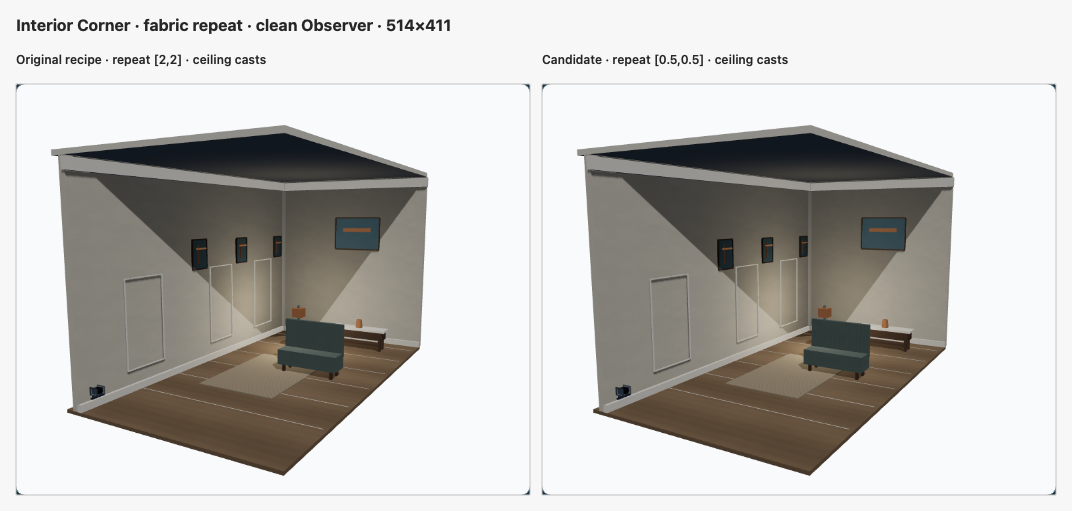
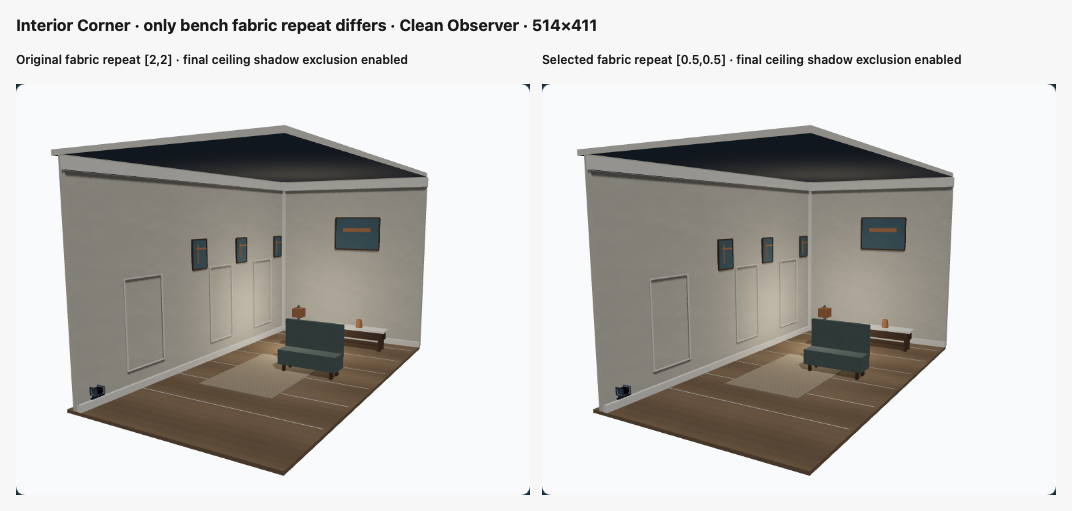
docs(render-quality): correct controlled fabric A/B evidence

diff --git a/docs/render-quality/PROCEDURAL_MATERIALS_INTERIOR_CORNER_PILOT.md b/docs/render-quality/PROCEDURAL_MATERIALS_INTERIOR_CORNER_PILOT.md
@@ -4,7 +4,7 @@
 
 **PASS**
 
-This is the final decision after reviewing the actual-browser A/B evidence and Review-Fix Round 1. At the normal 514 × 411 Observer canvas, `[0.5, 0.5]` gives the bench modest additional surface structure over `[2, 2]`; individual threads are still too small to resolve clearly at this distance. The texture remains plausible and subordinate, with no oversized weave or checker effect. The ceiling shadow comparison confirms the distracting diagonal is removed while the ceiling stays visible and localized shadows remain. Paper, wood, plaster, rug, geometry, camera, optics, lighting rig, and teaching behavior are preserved.
+This is the final decision after reviewing the controlled real-browser A/B on the final implementation and Review-Fix Round 1. At the normal 514 × 411 Observer canvas, `[0.5, 0.5]` adds a subtle, low-contrast surface cue over `[2, 2]`; individual threads are not resolved at this distance. The texture remains plausible and subordinate, with no oversized weave or checker effect. The ceiling shadow comparison confirms the distracting diagonal is removed while the ceiling stays visible and localized shadows remain. Paper, wood, plaster, rug, geometry, camera, optics, lighting rig, and teaching behavior are preserved.
 
 No further material tuning was warranted. The fabric's remaining scale limitation is documented below.
 
@@ -121,7 +121,7 @@ The previous review identified insufficient ordinary-size bench-weave readabilit
 | Selected | `[0.5, 0.5]` | casts | Modest additional surface structure is visible; individual threads remain below clear resolution at this scene size. No oversized weave or obvious checker appearance. |
 | Final scene | `[0.5, 0.5]` | ceiling excluded | Same selected fabric scale, with the diagonal wall shadow removed. |
 
-Every fabric candidate kept color `#6d7b78`, roughness `0.98`, and normal strength `0.18`; only repeat changed. The A/B contact sheet compares the original `[2, 2]` recipe against `[0.5, 0.5]` at the original 514 × 411 Observer size. Both panels use the same route, viewport (1440 × 1000), DPR 1, Standard quality, camera/orbit, focus (8000 mm), aperture (f/5.6), neutral movements, WebGL2/r187 backend, and ceiling-casting state. The sidecars match those capture-state fields. At this distance the bench occupies few pixels, so individual yarns are not resolved; the final texture adds a restrained surface cue without becoming visually loud. This supports PASS for the integration at ordinary scene scale, with the pixel-scale limitation retained. No further texture tuning was performed.
+Every fabric candidate kept color `#6d7b78`, roughness `0.98`, and normal strength `0.18`; only repeat changed. The first published A/B came from separate capture attempts and its sidecars recorded public UI state, but not live scene caster flags or shadow-camera state. Review reported visibly different wall-shadow boundaries, so that sheet was withdrawn as controlled evidence. The checked-in source PNGs and sheet could not reproduce that background difference in a byte-level audit, and the old runtime state was not recorded well enough to establish a cause. The replacement comparison and findings are in **Final Evidence Correction — Controlled Fabric A/B** below. No additional material tuning was performed.
 
 The shadow cause was the shared `configureTeachingShadowParticipation()` policy, which opts every lit non-helper subject mesh into shadow casting. This round adds an exact-name exclusion for `interior-corner-ceiling` in `TeachingLighting.tsx`. The ceiling remains a visible `MeshStandardMaterial` surface; the lighting rig and all other caster/receiver decisions remain unchanged. A focused unit test proves that the ceiling does not cast while the wall still casts and receives, and that the ceiling remains visible and lit. The same registered subject and helper serve Observer and Ground Glass.
 
@@ -129,13 +129,11 @@ The shadow cause was the shared `configureTeachingShadowParticipation()` policy,
 
 The final clean Observer capture at 514 × 411 shows the ceiling shadow removed from the walls. The room reads more evenly while contact shadows under the bench and furniture and shadows around the wall trim/art remain. Teaching Observer overlays remain present and legible.
 
-The three published contact sheets below use the actual browser canvas captures as panels at their native 514 × 411 pixels (1:1). The contact-sheet labels and margins are added around those panels; the source screenshots remain untouched in the ignored directory and the displayed panels are not cropped, resized, or reoriented. Raw captures and sidecars remain in `.dream-loop/interior-corner/review-fix-1/`.
+The published contact sheets below use actual browser canvas captures as panels at their native 514 × 411 pixels (1:1). The ceiling-shadow and Clean/Teaching sheets remain unchanged from the accepted Review-Fix Round 1 evidence. The fabric sheet was replaced with the controlled final-state comparison documented below. Raw captures and sidecars remain in the ignored `.dream-loop/interior-corner/review-fix-1/` directory.
 
 #### Fabric A/B — original `[2, 2]` versus selected `[0.5, 0.5]`
 
-![Clean Observer fabric repeat A/B at 514 by 411](evidence/pr334/observer-fabric-ab.png)
-
-The right panel was captured during the `[0.5, 0.5]` worktree candidate based on reviewed HEAD `865ed077e4414da274a3a10f40d17806220c4890`; that temporary change became the final bench assignment in implementation commit `097c587619641332a364e7198c70aec34d3f0ac6`. Its sidecar's `sourceCommit` records the Git base for the capture, not a hash of the temporary working-tree edit. The left panel is the original `[2, 2]` recipe. The script that generated the labels and the matched sidecars remain in the ignored worktree for provenance.
+The earlier sidecar-based A/B was superseded after review. The corrected sheet and its runtime and pixel evidence appear in **Final Evidence Correction — Controlled Fabric A/B** below.
 
 #### Ceiling shadow — before versus after
 
@@ -195,6 +193,28 @@ The benchmark found no additional texture, geometry, material, or renderer-resou
 - The final report and three image files are also outside the visual-worker allowlist by explicit authorization for this documentation/evidence closeout. The cumulative A1-based guard was not rerun: its diff includes prior report content and cannot isolate the Round 1 correction. Do not treat the historical A2 guard command above as a passing validation for the completed PR or claim that the final cumulative guard passes.
 - GitHub Actions on the original reviewed PR head `865ed077e4414da274a3a10f40d17806220c4890` and implementation commit `097c587619641332a364e7198c70aec34d3f0ac6` completed successfully. The implementation run was workflow run `43473665553` (run 2029). The exact current-head checks for this final report/evidence package are recorded in the PR handoff after publication.
 
+## Final Evidence Correction — Controlled Fabric A/B
+
+### Previous mismatch diagnosis
+
+The prior sheet was not accepted as controlled proof because the reviewer observed different wall-shadow shapes while its sidecars contained no actual mesh shadow flags, light placement, or shadow-camera state. Source commits `46705e79ea70ed6c1607bd5ecf87604f18f34206` and `865ed077e4414da274a3a10f40d17806220c4890` differ only by the pilot-report commit; the scene-factory and shadow-policy code is the same in both. A post-hoc byte-level comparison of the tracked prior sheet's two source panels and their saved PNGs found 2,285 changed pixels, all inside the projected bench region, with zero changes among 206,666 pixels outside it (maximum channel difference 4). The reported wall-shadow discrepancy could not be reproduced from those stored bytes, so its runtime cause remains **unestablished**. The old panel is superseded regardless, because the prior capture did not record the live rendering state needed to rule out a stale frame or initialization difference.
+
+### Controlled capture state and provenance
+
+Both replacement panels were captured in one Playwright Chromium page against the final PR source commit `fdb5b6461fecc2effa2c05080f921b626f300b2d`, using the public route `/simulator/free/interior-corner?sceneCapacityProfiling=1`, viewport 1440 × 1000, browser DPR 1, Standard quality, Clean Observer, focus 8000 mm, f/5.6, neutral Rise/Tilt/Swing, camera position `(-6.6, 2.9, -5.6)`, and orbit target `(0.45, 0.85, 6.7)`. The browser-only override changed only the bench material's `map`, `roughnessMap`, and `normalMap` repeats from `[0.5, 0.5]` to `[2, 2]` for panel A, then back to the final `[0.5, 0.5]` for panel B. Color `#6d7b78`, roughness `0.98`, normal strength `0.18`, texture data, geometry, and all other materials remained unchanged; the production source remained at `[0.5, 0.5]` throughout.
+
+The live R3F snapshot confirmed the ceiling remained visible with its `MeshStandardMaterial`, `castShadow: false`, and `receiveShadow: false` for both captures. The same scene had 68 mesh casters and 29 receivers. The teaching fill was a HemisphereLight at intensity `0.55`; the directional key remained at `(-0.108, 5.35, 5.5)`, aimed at `(2.392, 1.85, 8)`, intensity `1.15`, with its 1024 × 1024 PCF shadow map, bias `-0.0002`, normal bias `0.015`, and camera bounds `[-8, 8] × [-8, 8]` / near `0.1` / far `32`. The Interior Corner practical point light remained at `(0.42, -0.09, 8.3)`, intensity `5`, distance `7.5`, decay `2`, with shadow casting disabled. The renderer was active WebGL2 / Three.js r187 with Standard output, ACES Filmic, exposure `1`, sRGB output. The runtime snapshots matched for camera state, object transforms and geometry, all casters/receivers, all lights and shadow-camera settings, renderer configuration, and UI controls; the only intended state difference was the three bench texture repeats. Each saved canvas image stabilized across three consecutive identical captures, was 514 × 411, and the page reported no errors. The final repeat was restored after capture.
+
+The bench ROI is `(x=258, y=230, width=74, height=62)`, derived from the projected bounds of the registered bench seat and back plus 3 px padding. On the two genuine screenshot pixel buffers, 2,282 pixels differ inside that ROI (mean absolute RGB-channel difference `0.46/255`, maximum `4/255`); **0 of 206,666 pixels outside it differ**. Background walls, shadows, object edges, and composition are pixel-aligned. The texture-scale change is subtle but credible at ordinary size: `[0.5, 0.5]` adds a faint surface variation, while individual threads remain unresolved. There is no oversized weave, checker appearance, or visible aliasing. This supports the limited claim of improved surface structure, not resolved yarn detail.
+
+![Controlled Clean Observer fabric A/B at 514 by 411; both panels use final ceiling-shadow exclusion](evidence/pr334/observer-fabric-ab.png)
+
+The compact contact sheet is 1072 × 511 and is directly published at [`evidence/pr334/observer-fabric-ab.png`](evidence/pr334/observer-fabric-ab.png). Its two 514 × 411 panels preserve the captured screenshot pixel bytes exactly, with no resizing, crop, reorientation, or image enhancement. Ignored provenance files are `.dream-loop/interior-corner/review-fix-1/controlled-final-shadow/capture-diagnostics.json`, `pixel-difference-raw-bytes.json`, `observer-fabric-repeat-2x2.png`, and `observer-fabric-repeat-0_5x0_5.png`. The browser-only capture harness and pixel comparison script also remain ignored in that directory; no temporary scripts or raw screenshots are committed.
+
+### Reused validation
+
+This correction changes only the report and one compact evidence image. Production code is unchanged, so the accepted nine-state Focus/Aperture matrix, Processed/Raw/Upright and Rise/Swing regressions, ceiling-shadow comparison, scene-capacity benchmark, and Review-Fix Round 1 tests remain the applicable implementation evidence. Current-head GitHub CI is recorded in the PR handoff after publication.
+
 ## Final Acceptance
 
 **PASS — ready for final human approval.** This decision uses the ordinary-size fabric A/B and the final ceiling-shadow and Clean/Teaching Observer evidence linked above. It does not require individual yarns to remain visible when the bench occupies only a small part of the canvas.
@@ -203,12 +223,12 @@ The benchmark found no additional texture, geometry, material, or renderer-resou
 | --- | --- | --- |
 | Shared paper/fabric library | PASS | Deterministic shared API and existing ownership remain intact. |
 | Legacy pattern preservation | PASS | Existing limestone, cut-stone, concrete, plaster, and wood output hashes remain unchanged. |
-| Fabric integration | PASS | `[0.5, 0.5]` adds modest surface structure versus `[2, 2]` without an oversized weave, checker pattern, or teaching-scene distraction. Individual threads are not resolved at 514 × 411. |
+| Fabric integration | PASS | The controlled A/B confines all pixel differences to the bench ROI; `[0.5, 0.5]` adds a subtle, low-contrast surface cue without oversized weave, checker pattern, or teaching-scene distraction. Individual threads are not resolved at 514 × 411. |
 | Ceiling shadow | PASS | The diagonal wall shadow is removed; the ceiling remains visible/lit and localized furniture/object shadows remain. |
 | Observer / Teaching | PASS | Clean Observer remains clear and Teaching Observer retains its focus, DOF, and optical overlays. |
 | Ground Glass | PASS | The validated focus/aperture matrix, Processed, Raw, Upright, Rise, and Swing captures remain contentful with expected orientation. |
 | Resources / performance | PASS | Scene counts are unchanged from A2; timing changes are small SwiftShader observations, not GPU measurements. |
 | Tests / CI | PASS | The Review-Fix implementation validation passed (164 focused tests and 4,065 full tests); final-head hosted CI passed after this report/evidence-only update. Exact current-head runs are listed in the PR handoff. |
-| Visual evidence | PASS | All three compact contact sheets are checked into `evidence/pr334/` and linked directly in this report and PR description. Raw captures remain ignored. |
+| Visual evidence | PASS | The corrected controlled Fabric A/B is checked into `evidence/pr334/`; the accepted ceiling-shadow and Clean/Teaching sheets are unchanged. All three are linked directly in this report and PR description. Raw captures remain ignored. |
 
-The original A2 results (156 focused tests and 4,064 full tests) remain under **Original Pilot Validation (A2)** as historical evidence; they are not the current Review-Fix result. This final closeout changes only the pilot report and the three compact evidence images. It does not change production rendering or broaden the Dream Loop manifest.
+The original A2 results (156 focused tests and 4,064 full tests) remain under **Original Pilot Validation (A2)** as historical evidence; they are not the current Review-Fix result. This final evidence correction changes only the pilot report and the Fabric A/B contact sheet. It does not change production rendering or broaden the Dream Loop manifest.
